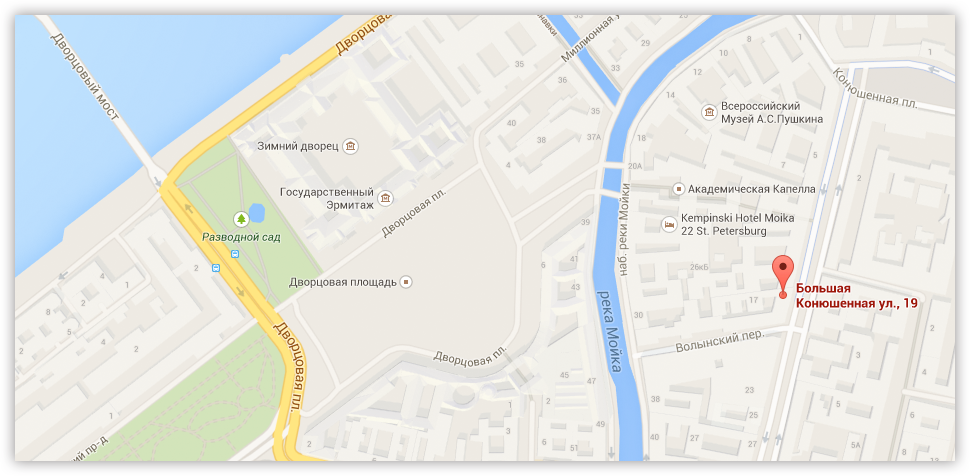
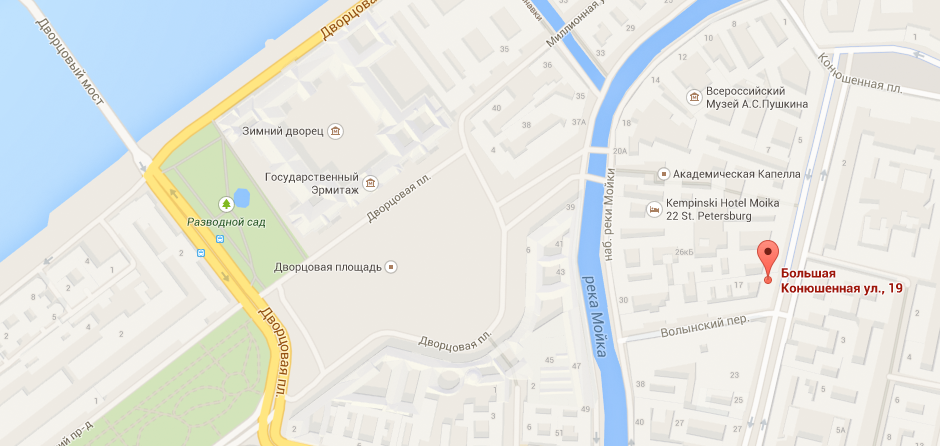
16-10-19 01:14

diff --git a/css/style.css b/css/style.css
@@ -61,14 +61,16 @@ h4 {
 .header-top-container {
   display: flex;
   flex-wrap: wrap;
+  margin-bottom: 45px;
   background-color: #32425c;
 }
 
 .header-top-line {
   display: flex;
   justify-content: space-between;
+  align-items: center;
   width: 940px;
-  height: 47px;
+  height: 42px;
   margin: auto;
   font-size: 17px;
   line-height: 18px;
@@ -77,6 +79,7 @@ h4 {
 .logo-and-search {
   display: flex;
   width: 1280px;
+  height: 100%;
 }
 
 .logo-header {
@@ -84,8 +87,8 @@ h4 {
   background-color: #ee3643;
   width: 220px;
   text-align: center;
-  padding-top: 10px;
-  padding-bottom: 42px;
+  padding-top: 13px;
+  padding-bottom: 34px;
   box-shadow: inset 0px -5px 0px 0px rgba(0, 0, 0, 0.24);
 }
 
@@ -102,7 +105,7 @@ h4 {
 .search-form {
   display: flex;
   flex-direction: row-reverse;
-  width: 272px;
+  width: 270px;
 }
 
 input[type="search"] {
@@ -110,13 +113,14 @@ input[type="search"] {
   font-size: 17px;
   line-height: 18px;
   width: 222px;
-  height: 100%;
+  height: 99%;
   border: none;
   color: #ffffff;
   background-color: #32425c;
 }
 
 input[type="search"]::placeholder {
+  margin-bottom: 10px;
   font-size: 17px;
   line-height: 18px;
   color: #ffffff;
@@ -148,7 +152,8 @@ input[type="search"]:focus:hover {
 }
 
 .search-submit-btn {
-  width: 50px;
+  width: 48px;
+  padding: 8px 0px 6px 3px;
   outline: 0;
   border: 0;
   background-color: transparent;
@@ -170,18 +175,25 @@ input[type="search"]:focus + .search-submit-btn path {
 
 .header-mid-containter {
   display: flex;
+  justify-content: space-between;
+  align-items: flex-start;
+  align-content: flex-start;
   margin: auto;
+  margin-bottom: 40px;
 }
 
 .header-mid-line {
   display: flex;
   justify-content: space-between;
-  align-items: center;
+  align-items: flex-start;
+  align-content: flex-start;
   width: 940px;
 }
 
 .headline {
   margin-left: 60px;
+  margin-top: 0;
+  margin-bottom: 0;
   font-size: 16px;
   font-style: italic;
   line-height: 23px;
@@ -213,7 +225,8 @@ input[type="search"]:focus + .search-submit-btn path {
 }
 
 .profile-menu a {
-  padding: 15px 25px 15px 25px;
+  display: block;
+  padding: 12px 25px 12px 25px;
   margin-left: 10px;
   font-size: 21px;
   line-height: 21px;
@@ -261,6 +274,7 @@ a.account-link {
 .user-menu {
   display: flex;
   justify-content: space-between;
+  height: 100%;
   padding: 0;
   list-style: none;
 }
@@ -276,7 +290,7 @@ a.account-link {
 
 .user-menu a {
   display: inline-block;
-  padding: 15px 20px 14px 30px;
+  padding: 12px 20px 11px 37px;
   width: 150px;
   text-align: center;
   font-size: 17px;
@@ -299,7 +313,7 @@ a.account-link {
 .user-menu-bookmarks-link::before {
   content: "";
   position: absolute;
-  left: 15px;
+  left: 17px;
   width: 14px;
   height: 16px;
   background-image: url("../img/icon-bookmark.svg");
@@ -308,14 +322,15 @@ a.account-link {
   opacity: 0.3;
 }
 
-.user-menu-cart-link {
+a.user-menu-cart-link {
   position: relative;
+  padding-left: 39px;
 }
 
 .user-menu-cart-link::before {
   content: "";
   position: absolute;
-  left: 15px;
+  left: 18px;
   width: 15px;
   height: 15px;
   background-image: url("../img/cart-icon.svg");
@@ -336,8 +351,8 @@ a.account-link {
 
 a.user-menu-order-link {
   display: inline-block;
-  min-height: 47px;
-  padding: 15px 0 14px 0;
+  min-height: 42px;
+  padding: 12px 0 8px 0;
   background-color: #63a63e;
 }
 
@@ -711,6 +726,26 @@ p.filter-range-between {
 .about-more-link:active,
 .btn-reply:active {
   background-color: #ba2732;
+}
+
+.slider-controls {
+  position: absolute;
+  bottom: 22px;
+  left: 50%;
+  z-index: 20;
+  font-size: 0;
+}
+
+.slider-controls label {
+  display: inline-block;
+  width: 10px;
+  height: 10px;
+  margin-right: 10px;
+
+  background-color: #ffffff;
+  border: 2px solid #ffffff;
+  border-radius: 50%;
+  cursor: pointer;
 }
 
 .main-section-heading-and-link-container {
@@ -1114,6 +1149,7 @@ p.filter-range-between {
   font-size: 14px;
   line-height: 18px;
   text-transform: uppercase;
+  border-radius: 3px;
   background-color: #ee3643;
 }
 
@@ -1130,6 +1166,7 @@ p.filter-range-between {
   line-height: 18px;
   text-transform: uppercase;
   border: none;
+  border-radius: 3px;
   color: #ffffff;
   background-color: #ee3643;
 }
@@ -1312,4 +1349,130 @@ p.filter-range-between {
 .developer-link:active {
   color: #ff3333;
   text-decoration: none;
+}
+
+/* Всплывающая форма */
+
+.modal {
+  position: fixed;
+  z-index: 30;
+  color: #000000;
+  background-color: #ffffff;
+  box-shadow: 0 30px 50px rgba(0, 0, 0, 0.7);
+}
+
+.modal-reply {
+  display: none;
+  top: 30%;
+  left: 50%;
+
+  width: 620px;
+  margin-left: -310px;
+  padding: 55px 80px 37px 80px;
+  box-shadow: inset 0 7px 0 rgb(238, 54, 67),
+              inset 0 -112px 0 rgb(241, 241, 241),
+              0px 20px 40px 0px rgba(0, 1, 1, 0.75);
+}
+
+.reply-form {
+  display: flex;
+  flex-direction: column;
+}
+
+.reply-form label {
+  margin-bottom: 13px;
+  line-height: 18px;
+}
+
+.reply-form input[type="text"] {
+  width: 220px;
+  min-height: 38px;
+  margin-bottom: 51px;
+  border: 2px solid #d7dcde;
+  border-radius: 2px;
+}
+
+.reply-form input[type="text"]:hover {
+  border-color: #b5b5b5;
+}
+
+.reply-form input[type="text"]:focus,
+.reply-form input[type="text"]:active {
+  border-color: #ee3643;
+  outline: 0;
+}
+
+
+.reply-form input[type="text"]::placeholder {
+  font-family: "PT Sans", Arial, sans-serif;
+  font-size: 13px;
+  line-height: 18px;
+  padding-left: 15px;
+  color: #999999;
+}
+
+.reply-form button {
+  padding: 10px 40px;
+  width: 460px;
+  margin: auto;
+  font-size: 14px;
+  line-height: 18px;
+  text-transform: uppercase;
+  border: none;
+  border-radius: 3px;
+  color: #ffffff;
+  background-color: #ee3643;
+}
+
+.reply-form button:hover {
+  background-color: #b22832;
+}
+
+.modal-map {
+  display: none;
+  top: 50%;
+  left: 50%;
+
+  width: 940px;
+  height: 446px;
+  margin-top: -280px;
+  margin-left: -470px;
+  box-shadow: 0px 0px 14.72px 1.28px rgba(47, 42, 43, 0.5);
+  background-color: #565656;
+}
+
+.modal-close {
+  position: absolute;
+  top: 9px;
+  right: 9px;
+
+  width: 22px;
+  height: 22px;
+
+  background-color: transparent;
+  border: 0;
+
+  cursor: pointer;
+}
+
+.modal-close::before,
+.modal-close::after {
+  content: "";
+
+  position: absolute;
+  top: 10px;
+  left: 2px;
+
+  width: 19px;
+  height: 3px;
+
+  background-color: #ee3643;
+}
+
+.modal-close::before {
+  transform: rotate(45deg);
+}
+
+.modal-close::after {
+  transform: rotate(-45deg);
 }

diff --git a/index.html b/index.html
@@ -12,10 +12,12 @@
       <div class="header-top-container">
         <div class="header-top-line">
           <div class="logo-and-search">
-            <a class="logo-header" href="index.html" aria-label="Логотип магазина Техномарт"><img src="img/logo.png" width="138" height="23" alt="Техномарт"></a>
+            <a class="logo-header" href="index.html" aria-label="Логотип магазина Техномарт">
+              <img src="img/logo-header.png" width="110" height="19" alt="Техномарт">
+            </a>
             <form class="search-form" method="get" action="https://echo.htmlacademy.ru">
-              <label class="visually-hidden" for="search">Поиск:</label>
-              <input type="search" id="search" placeholder="Поиск">
+              <label class="visually-hidden" for="search">Поиск</label>
+              <input type="search" id="search" placeholder="Поиск:">
               <button class="search-submit-btn" type="submit" aria-label="Поиск по сайту">
                 <svg xmlns="http://www.w3.org/2000/svg" width="17px" height="17px" viewBox="0 0 17 17">
 	                <path d="M17,15.586l-3.542-3.542C14.421,10.782,15,9.21,15,7.5C15,3.358,11.643,0,7.5,0C3.358,0,0,3.358,0,7.5
@@ -116,6 +118,10 @@
           <button class="slider-btn-left" type="button" aria-label="Предыдущий слайд"></button>
           <button class="slider-btn-right" type="button" aria-label="Следующий слайд"></button>
           <a href="catalog.html">Открыть каталог</a>
+          <div class="slider-controls">
+            <label for="product-1">Первый слайд</label>
+            <label for="product-2">Второй слайд</label>
+          </div>
         </section>
 
         <ul class="special-offers-list">
@@ -285,7 +291,9 @@
       <div class="footer-upper-part-container">
         <div class="footer-upper-part">
           <div class="footer-upper-first-line">
-            <a class="logo-footer" href="index.html" aria-label="Логотип магазина Техномарт"><img src="img/logo.png" width="138" height="23" alt="Техномарт"></a>
+            <a class="logo-footer" href="index.html" aria-label="Логотип магазина Техномарт">
+              <img src="img/logo-footer.png" width="138" height="23" alt="Техномарт">
+            </a>
             <ul class="footer-site-navigation">
               <li><a href="company.html">Компания</a></li>
               <li><a href="news.html">Новости</a></li>
@@ -333,5 +341,22 @@
         </div>
       </div>
     </footer>
+
+    <section class="modal modal-reply">
+      <h2 class="visually-hidden">Форма отправки сообщения</h2>
+      <form class="reply-form" action="https://echo.htmlacademy.ru" method="post">
+        <label for="user-name">Ваше имя:</label>
+        <input id="user-name" type="text" name="name" placeholder="Представтесь, пожалуйста">
+        <button class="modal-close" type="button">Отправить</button>
+      </form>
+    </section>
+
+    <section class="modal modal-map">
+      <h2 class="visually-hidden">Как до нас добраться</h2>
+      <img src="img/address-map-big.png" width="940" height="446" alt="Офис компании по адресу ул. Большая Конюшенная 19/8, Санкт-Петербург">
+      <button class="modal-close" type="button">
+        <span class="visually-hidden">Закрыть</span>
+      </button>
+    </section>
   </body>
 </html>
